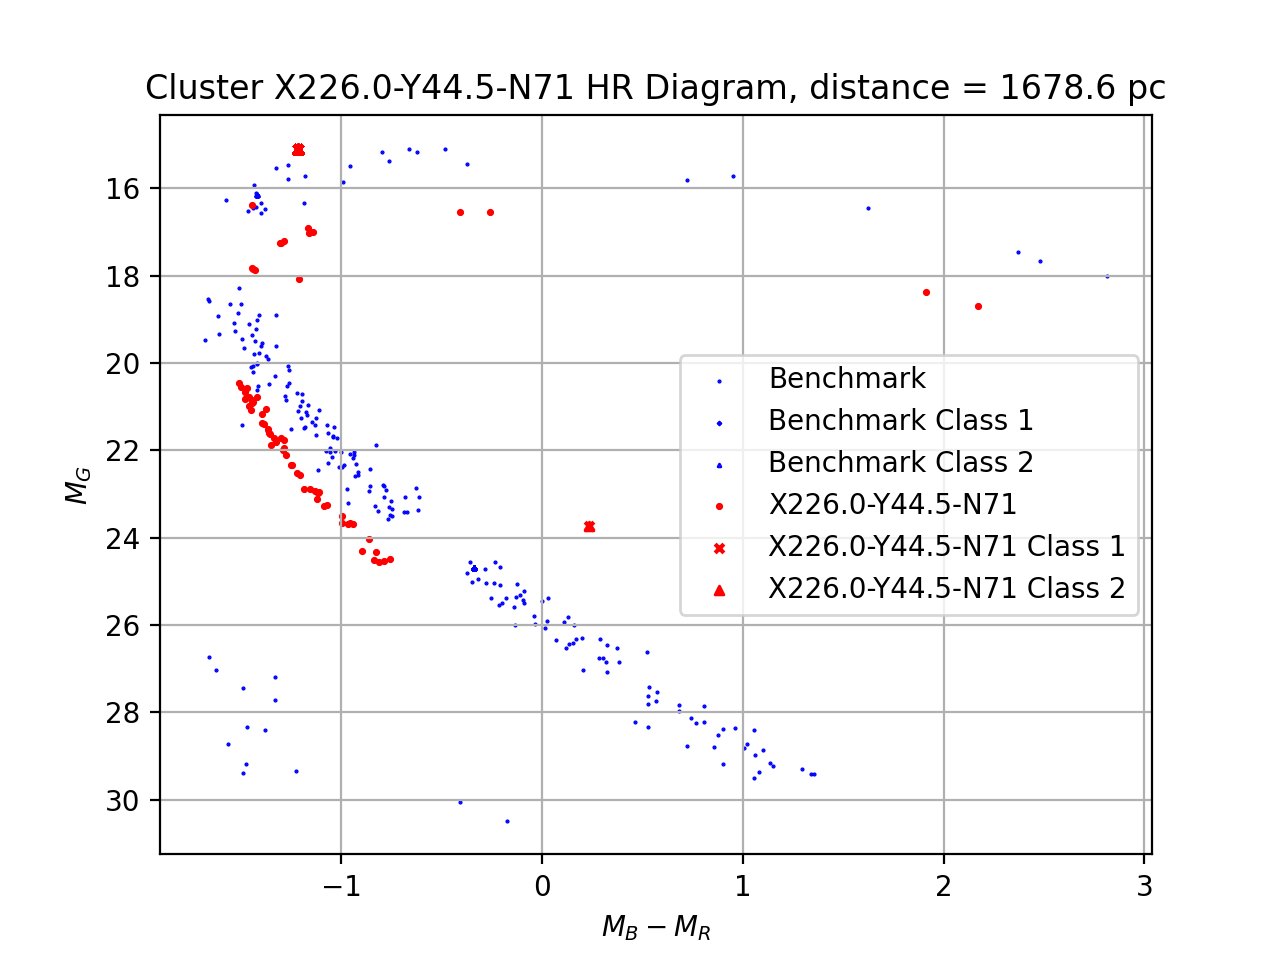
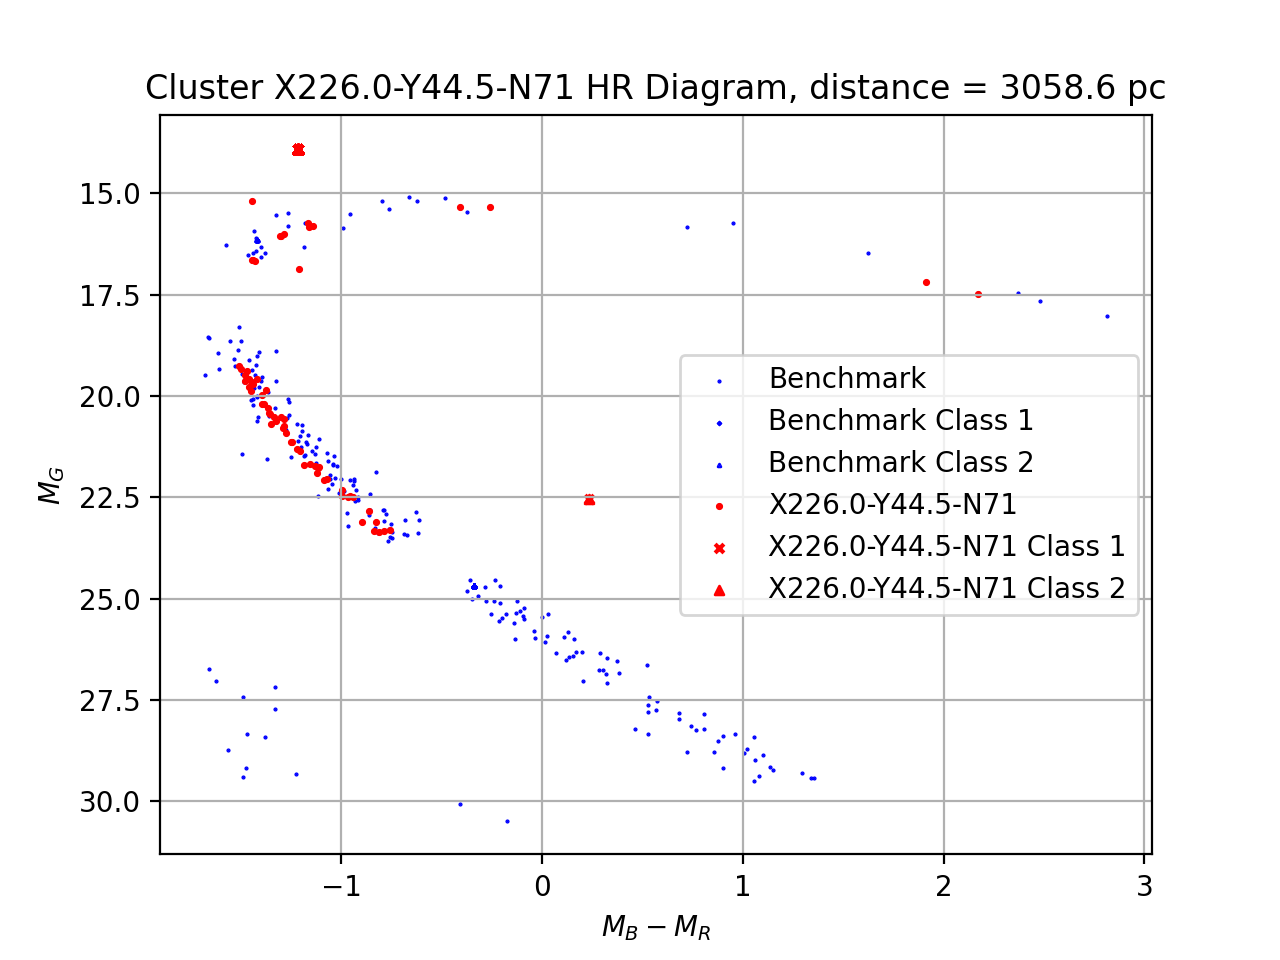
Second pass at HR distances
Still a couple star clusters that I don't like the look of, have added a text file listing those in particular to deal with later.

diff --git a/HR_Diagram/HR.py b/HR_Diagram/HR.py
@@ -27,7 +27,7 @@ def distModToDist(m_M):
 def distShiftByModulus(d,m):
     # shift a distance in pc given a modulus to shift UP by
     # to be used to make adjustments to HR diagrams
-    return distModToDist(2*np.log(d)-m)
+    return distModToDist(2*np.log(d)+m)
 
 def plotHR(MRs, MGs, MBs, MPs, ax: plt.Axes, col=None, lab='', scale=1):
     """
@@ -91,6 +91,4 @@ if __name__ == "__main__":
     # put code that you want to run from this file here
     warnings.filterwarnings('ignore')
 
-    # current code is just to make sure it works properly!
-    fig, ax = plotBaseline()
-    fig.show()
+    pass
